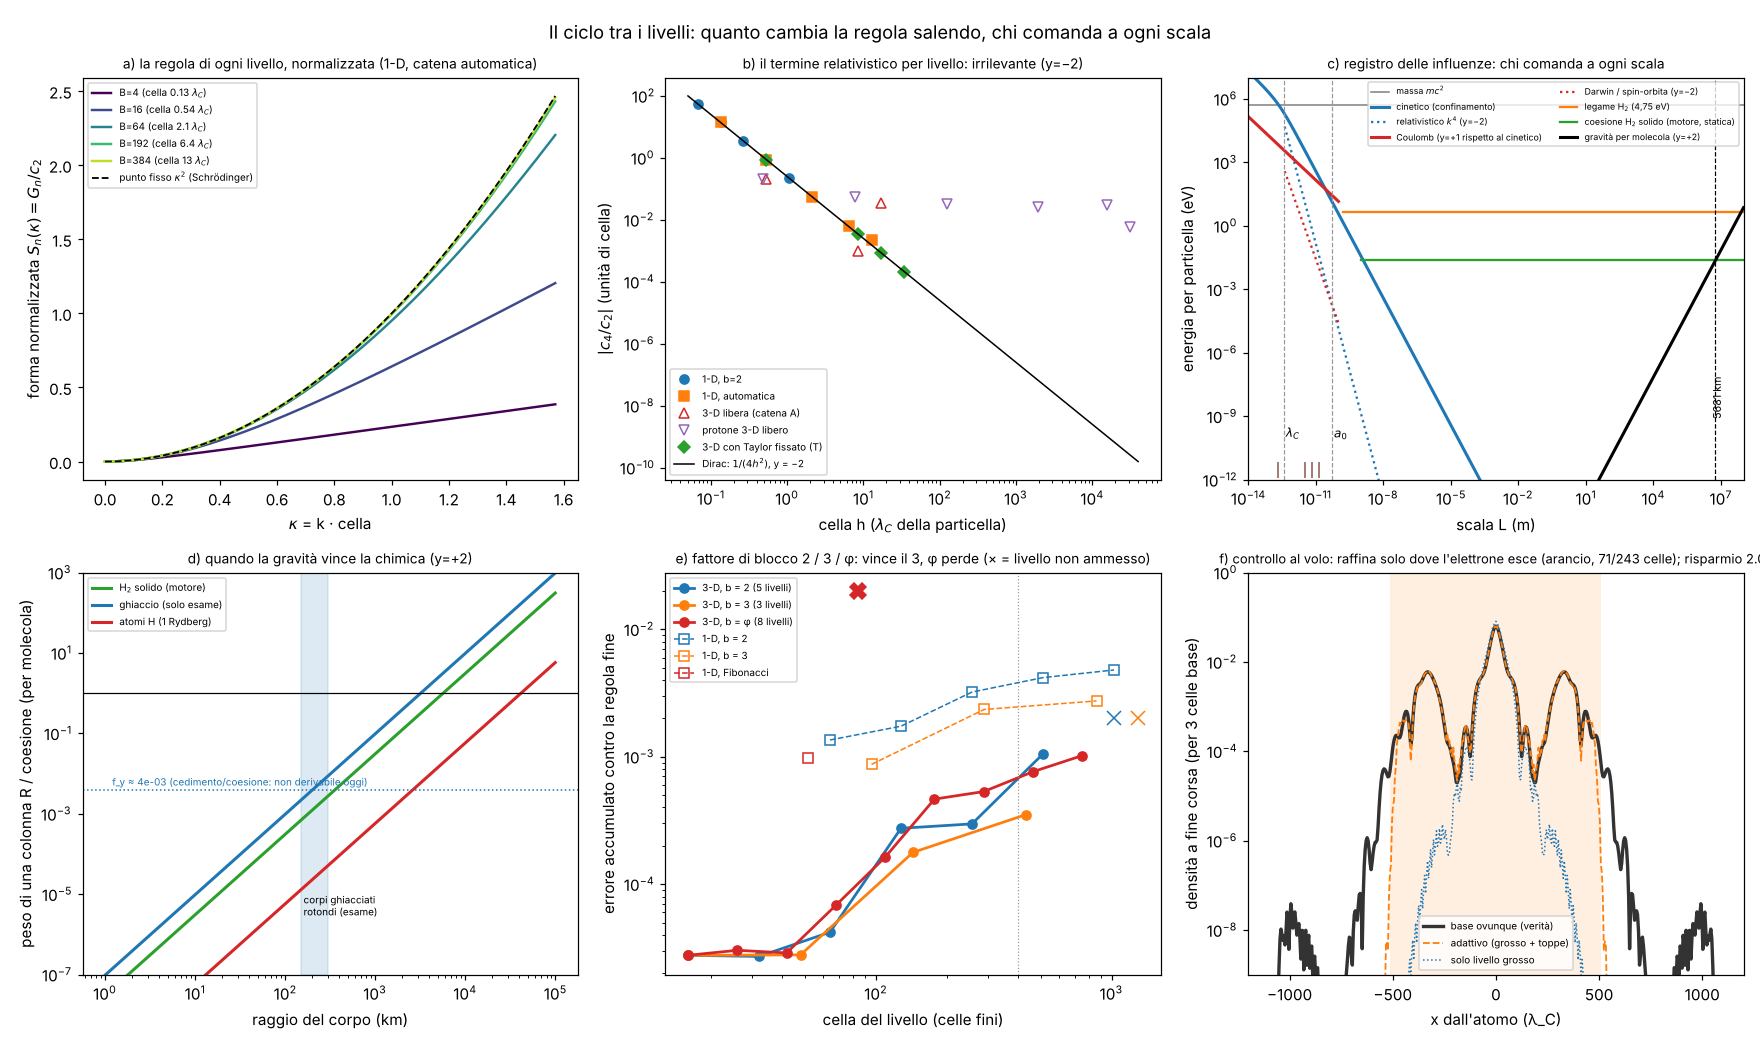
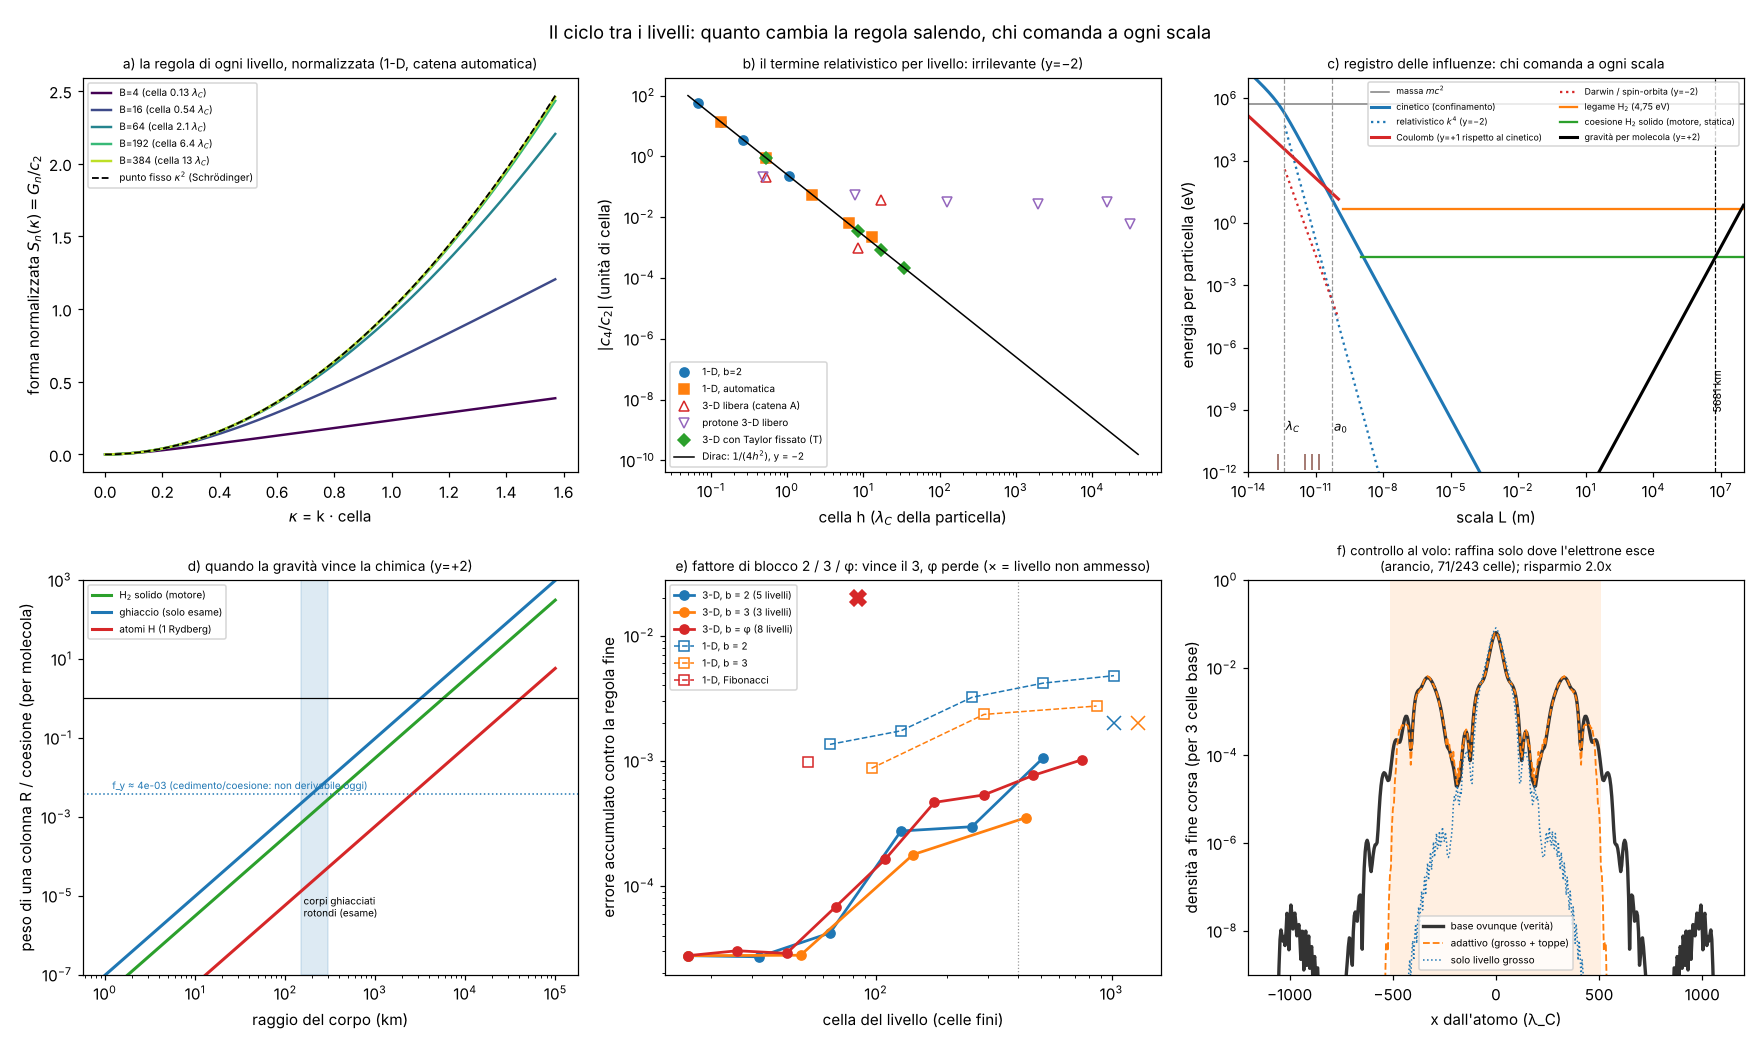
ciclo: titolo del pannello f su due righe
Claude-Session: https://claude.ai/code/session_01ERHuHu54uj1FWiP7hyeE8f

diff --git a/lab/ciclo_p3_figure.py b/lab/ciclo_p3_figure.py
@@ -19,6 +19,6 @@ def panel(ax):
     b6 = r["B6"]["value"]["P"]
     ax.set_ylim(1e-9, 1); ax.set_xlim(-1200, 1200)
     ax.set_xlabel("x dall'atomo (λ_C)"); ax.set_ylabel("densità a fine corsa (per 3 celle base)")
-    ax.set_title(f"f) controllo al volo: raffina solo dove l'elettrone esce (arancio, {ref.sum()}/243 celle); "
+    ax.set_title(f"f) controllo al volo: raffina solo dove l'elettrone esce\n(arancio, {ref.sum()}/243 celle); "
                  f"risparmio {b6['saving']:.1f}x", fontsize=8.5)
     ax.legend(fontsize=6.5, loc="lower center")
